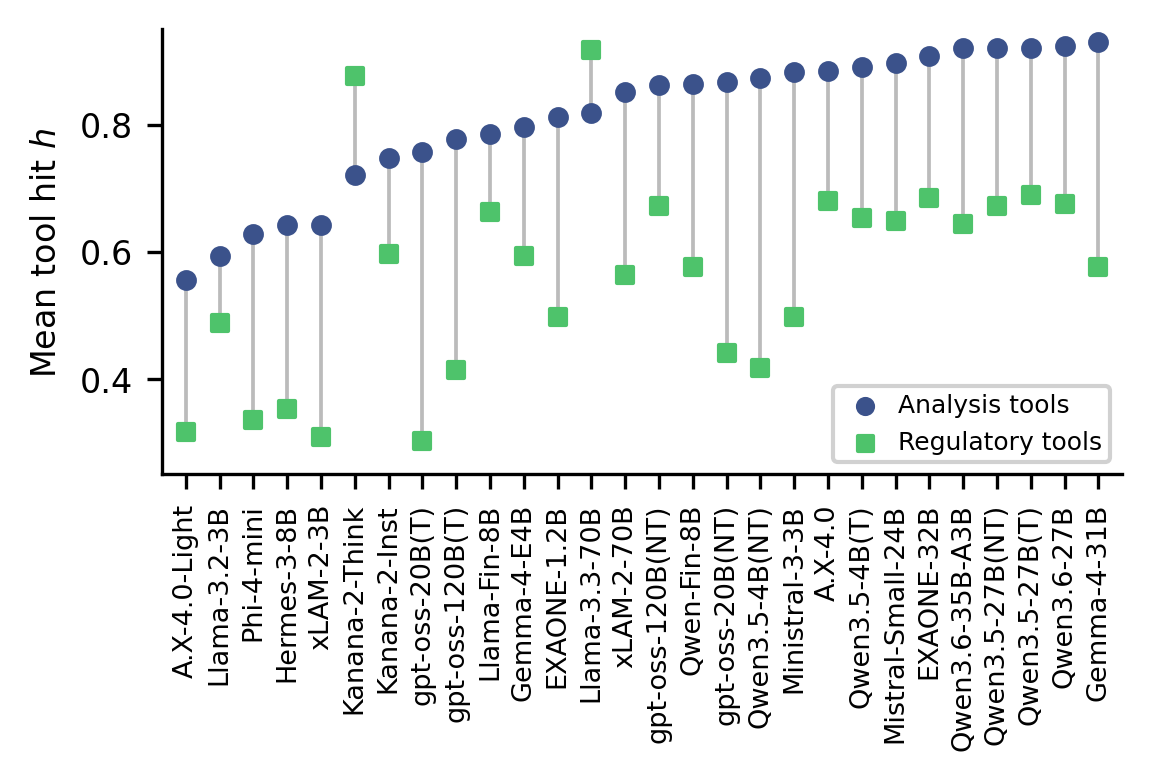
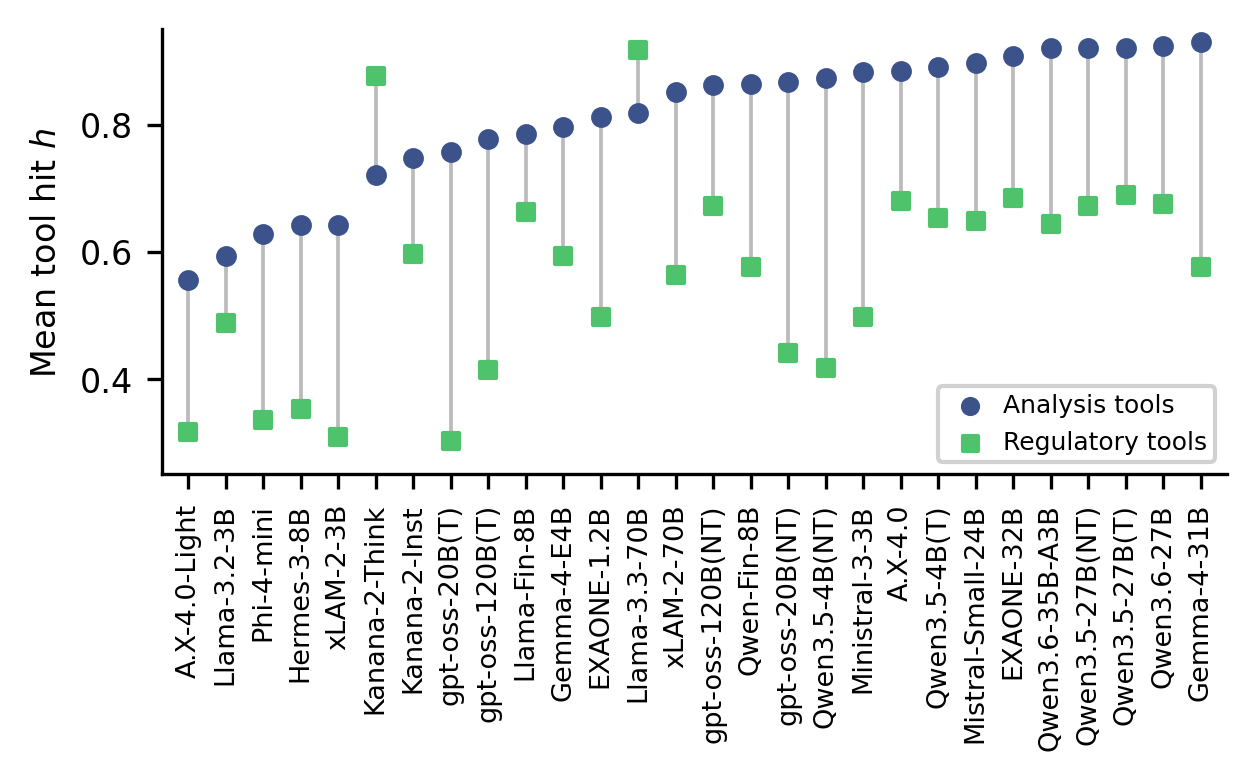
fig(reg-vs-analysis): widen plot further (figsize width 3.95 -> 4.3)

Changed region(s): [[0.125, 0.4923, 0.9688, 0.9538], [0.0312, 0.0308, 0.8125, 0.6154], [0.9375, 0.0308, 0.9688, 0.3385]]

diff --git a/_experiments/scripts/generate_reg_vs_analysis.py b/_experiments/scripts/generate_reg_vs_analysis.py
@@ -103,7 +103,7 @@ x = np.arange(len(rows))
 
 # single-column (\columnwidth): set figsize to the column width (~3.45in) so the
 # PDF is NOT downscaled in LaTeX and the tick/legend fonts render at true size.
-fig, ax = plt.subplots(figsize=(3.95, 2.7))
+fig, ax = plt.subplots(figsize=(4.3, 2.7))
 ax.vlines(x, reg, ana, color="#BBBBBB", lw=0.9, zorder=1)
 ax.scatter(x, ana, s=16, color=C_ANA, zorder=3, label="Analysis tools")
 ax.scatter(x, reg, s=16, color=C_REG, marker="s", zorder=3, label="Regulatory tools")
